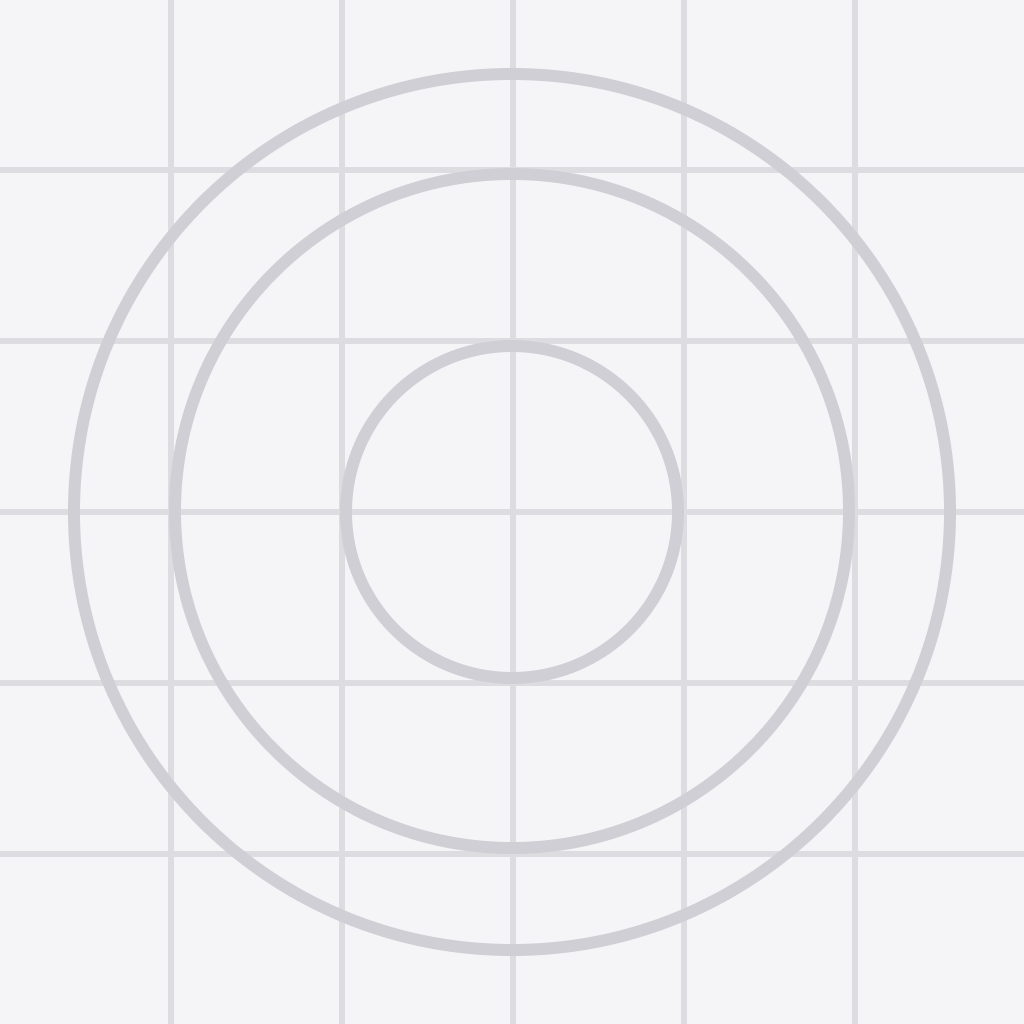
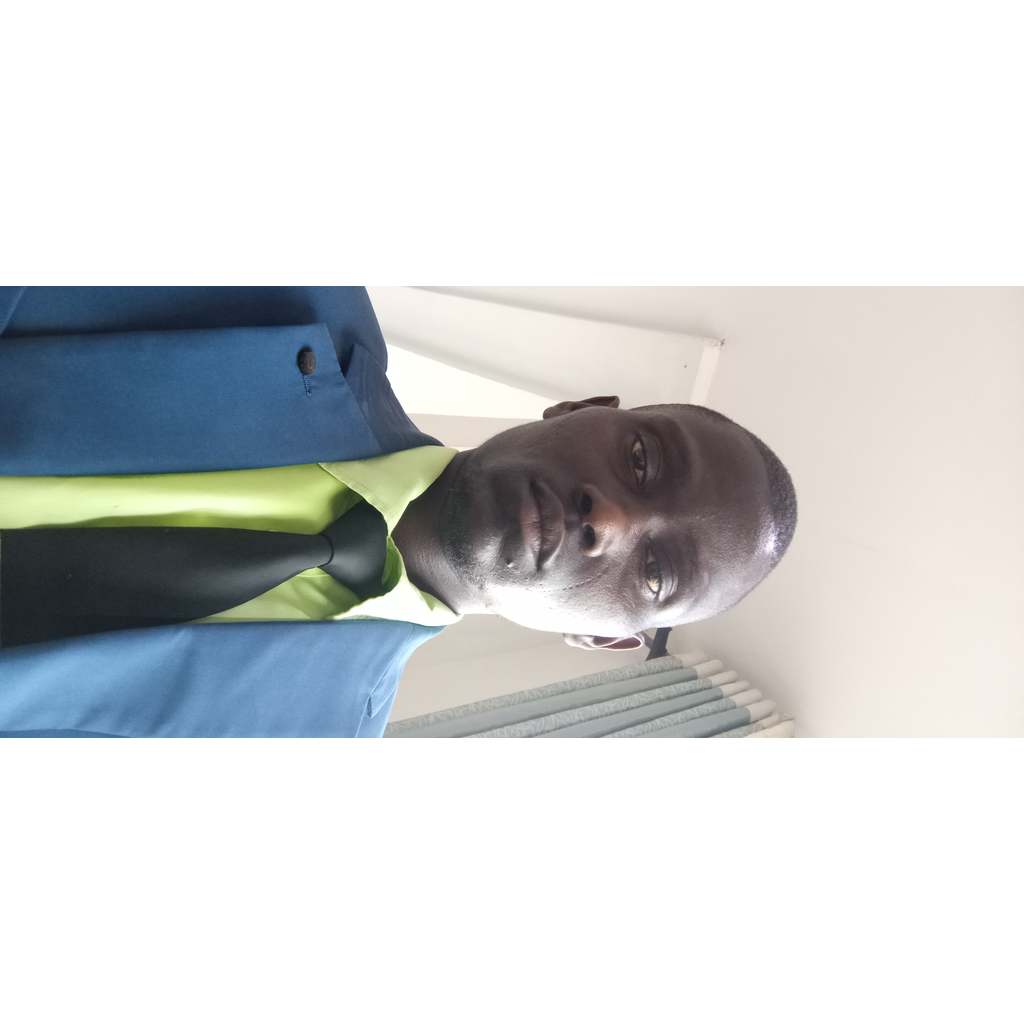
feat: launch v1.0.0 - JohnSidiken first digital business card

diff --git a/App.js b/App.js
@@ -1,20 +1,177 @@
-import { StatusBar } from 'expo-status-bar';
-import { StyleSheet, Text, View } from 'react-native';
+import React, { useEffect } from 'react';
+import {
+  StyleSheet,
+  View,
+  Text,
+  Image,
+  TouchableOpacity,
+  Linking,
+  SafeAreaView,
+  StatusBar,
+  ScrollView,
+  Alert,
+} from 'react-native';
+const App = () => {
+  const userInfo = {
+    name: "John Samula",
+    title: "Software Developer & Designer",
+    phone: "+256791855622",
+    whatsapp: "256756167064",
+    email: "[email redacted]",
+    website: "https://github.com/JohnSidiken",
+    profileImage: require('./assets/jskn.jpg'),
+  };
+  const handlePress = async (url) => {
+    try {
+      const supported = await Linking.canOpenURL(url);
+      if (supported) {
+        await Linking.openURL(url);
+      } else {
+        Alert.alert("Cannot open", `No app found to handle: ${url}`);
+      }
+    } catch (err) {
+      console.error("Error opening URL", err);
+    }
+  };
 
-export default function App() {
   return (
-    <View style={styles.container}>
-      <Text>Open up App.js to start working on your app!</Text>
-      <StatusBar style="auto" />
-    </View>
+    <SafeAreaView style={styles.container}>
+      <StatusBar barStyle="dark-content" backgroundColor="#F0F8FF" />
+      <ScrollView contentContainerStyle={styles.scrollContainer}>
+        <View style={styles.card}>
+          <View style={styles.imageContainer}>
+            <Image source={userInfo.profileImage} style={styles.profilePic} />
+          </View>
+
+          <Text style={styles.nameText}>{userInfo.name}</Text>
+          <Text style={styles.titleText}>{userInfo.title}</Text>
+
+          <View style={styles.separator} />
+
+          <View style={styles.buttonGrid}>
+            <TouchableOpacity
+              style={[styles.button, styles.callButton]}
+              onPress={() => handlePress(`tel:${userInfo.phone}`)}
+            >
+              <Text style={styles.buttonText}>📞 Call Me</Text>
+            </TouchableOpacity>
+
+            <TouchableOpacity
+              style={[styles.button, styles.whatsappButton]}
+              onPress={() => handlePress(`https://wa.me/${userInfo.whatsapp}`)}
+            >
+              <Text style={styles.buttonText}>💬 WhatsApp</Text>
+            </TouchableOpacity>
+
+            <TouchableOpacity
+              style={[styles.button, styles.webButton]}
+              onPress={() => handlePress(userInfo.website)}
+            >
+              <Text style={styles.buttonText}>🌐 Website</Text>
+            </TouchableOpacity>
+
+            <TouchableOpacity
+              style={[styles.button, styles.emailButton]}
+              onPress={() => handlePress(`mailto:${userInfo.email}`)}
+            >
+              <Text style={styles.buttonText}>✉️ Email</Text>
+            </TouchableOpacity>
+          </View>
+        </View>
+
+        <Text style={styles.footerText}>Tap a button to connect with me!</Text>
+      </ScrollView>
+    </SafeAreaView>
   );
-}
+};
 
 const styles = StyleSheet.create({
   container: {
     flex: 1,
-    backgroundColor: '#fff',
+    backgroundColor: '#F0F8FF',
+  },
+  scrollContainer: {
     alignItems: 'center',
+    paddingVertical: 40,
+  },
+  card: {
+    backgroundColor: '#FFFFFF',
+    width: '90%',
+    borderRadius: 25,
+    padding: 25,
+    alignItems: 'center',
+    shadowColor: '#87CEEB',
+    shadowOffset: { width: 0, height: 10 },
+    shadowOpacity: 0.2,
+    shadowRadius: 15,
+    elevation: 8,
+  },
+  imageContainer: {
+    width: 130,
+    height: 130,
+    borderRadius: 65,
+    borderWidth: 4,
+    borderColor: '#B0E0E6',
+    overflow: 'hidden',
+    marginBottom: 20,
+  },
+  profilePic: {
+    width: '100%',
+    height: '100%',
+  },
+  nameText: {
+    fontSize: 26,
+    fontWeight: 'bold',
+    color: '#4682B4',
+    marginBottom: 5,
+  },
+  titleText: {
+    fontSize: 16,
+    color: '#5F9EA0',
+    marginBottom: 20,
+    fontWeight: '500',
+  },
+  separator: {
+    width: '100%',
+    height: 1,
+    backgroundColor: '#F0F0F0',
+    marginBottom: 25,
+  },
+  buttonGrid: {
+    width: '100%',
+  },
+  button: {
+    paddingVertical: 15,
+    borderRadius: 12,
+    alignItems: 'center',
+    width: '100%',
+    flexDirection: 'row',
     justifyContent: 'center',
+    marginVertical: 7.5,
+  },
+  buttonText: {
+    color: '#FFFFFF',
+    fontSize: 16,
+    fontWeight: '600',
+    marginLeft: 10,
+  },
+  callButton: {
+    backgroundColor: '#87CEFA',
+  },
+  whatsappButton: {
+    backgroundColor: '#40C351',
+  },
+  webButton: {
+    backgroundColor: '#ADD8E6',
+  },
+  emailButton: {
+    backgroundColor: '#B0C4DE',
+  },
+  footerText: {
+    marginTop: 30,
+    color: '#A9A9A9',
+    fontSize: 12,
   },
 });
+
+export default App;